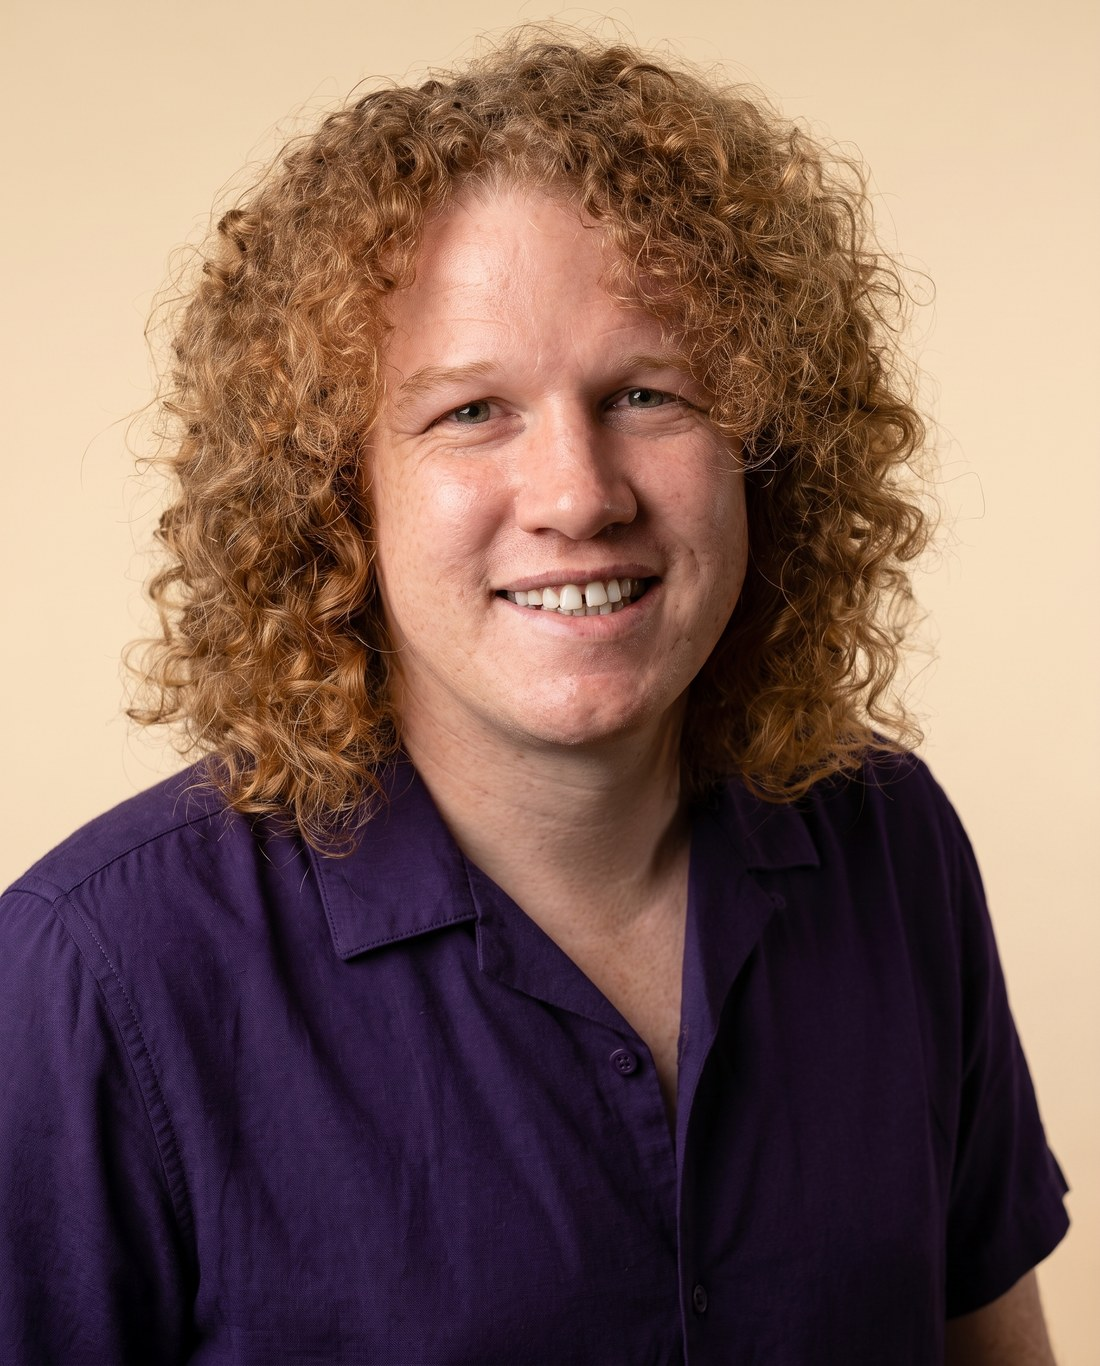
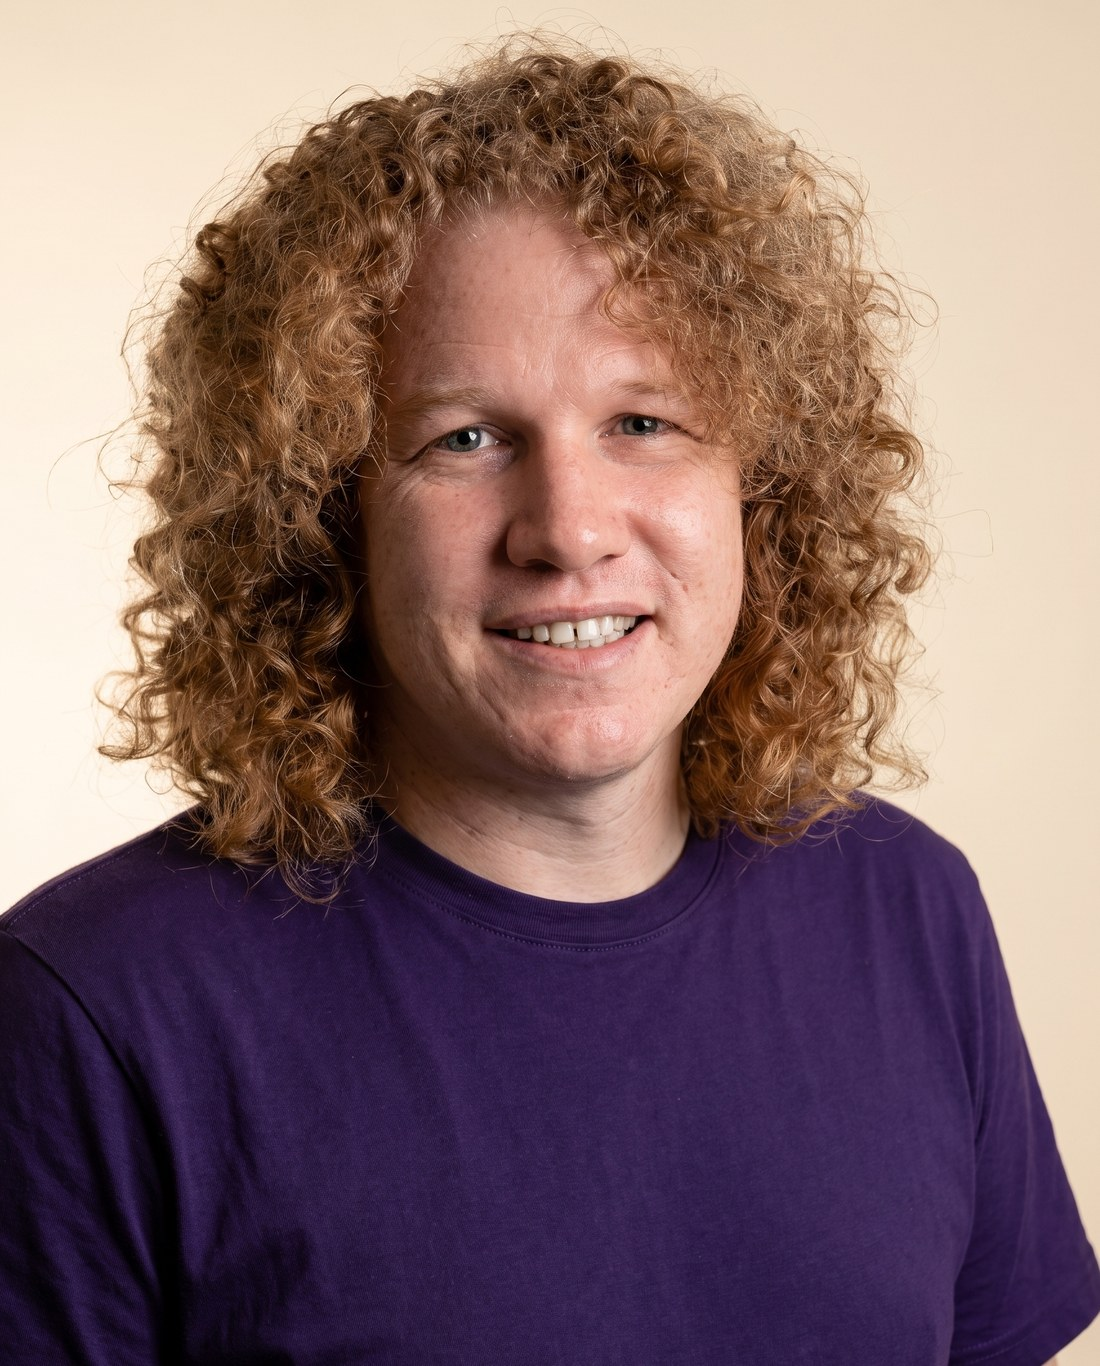
Decks: Logan's headshot, plain t-shirts in purple and cream, the humanoid rendered on the slide's own colour
Jesse, 2 Oct: the robot on 'who we are' looked wrong (a black-backed picture
blended onto purple left a visible box); the team were still in collared
shirts; Logan had no photo. The humanoid is re-rendered from the site's own
G1 picture on the night colour. Portraits are plain crew-neck t-shirts,
alternating purple and cream, from each person's real photo.

diff --git a/src/unisc-deck.html b/src/unisc-deck.html
@@ -84,7 +84,9 @@
   .full .txt{position:absolute;left:calc(96*var(--u));right:calc(96*var(--u));bottom:calc(110*var(--u));z-index:1}
 
   /* who we are */
-  .who .g1{position:absolute;right:0;top:0;height:100%;width:42%;object-fit:cover;object-position:50% 30%;mix-blend-mode:screen}
+  .slide.night:has(.who){background:#201235}
+  .who .g1{position:absolute;inset:0;width:100%;height:100%;object-fit:cover;transform:translateX(11%) scale(1.12);transform-origin:100% 55%}
+  .who .col{position:relative}
   .who .col{width:calc(1120*var(--u));display:flex;flex-direction:column;flex:1 1 auto;min-height:0}
   .four4{display:grid;grid-template-columns:1fr 1fr;gap:calc(8*var(--u)) calc(48*var(--u));margin-top:auto}
   .four4 div{border-top:calc(2*var(--u)) solid var(--paper-rule);padding:calc(20*var(--u)) 0 calc(14*var(--u))}
@@ -173,7 +175,7 @@
     .full>video{display:none}
     .full::after{display:none}
     .full .txt{position:static;padding:22px 22px 0}
-    .who .g1{position:static;width:100%;height:auto;aspect-ratio:4/3;margin-top:22px;border-radius:10px;mix-blend-mode:normal}
+    .who .g1{position:static;width:100%;height:auto;aspect-ratio:4/3;object-position:96% 50%;margin-top:22px;border-radius:10px;transform:none}
     .who .col{width:auto}
     .four4,.crew,.row3,.row4,.work,.wall,.ask .stats{grid-template-columns:1fr;gap:16px;margin-top:24px}
     .crew,.wall{grid-template-columns:1fr 1fr}
@@ -229,7 +231,7 @@
 
 <section class="stage" id="s{{i}}" aria-label="Slide {{i}}. Who we are">
   <div class="slide night"><div class="in who">
-    <img class="g1" src="{{root}}img/machines/unitree-g1-stage.jpg" width="1600" height="1600" alt="A Unitree G1 humanoid robot">
+    <img class="g1" src="{{root}}img/deck/g1-night.jpg" width="2752" height="1536" alt="A humanoid robot standing in a deep purple studio">
     <div class="col">
       <p class="lab">[ Who we are ]</p>
       <h2 class="l">We are an engineering company. Robots are most of what we build.</h2>
@@ -252,7 +254,7 @@
     <div class="crew">
       <div><div class="pic"><img src="{{root}}img/deck/team-jesse.jpg" width="1100" height="1366" alt="Jesse Costelloe"></div><h3>Jesse Costelloe</h3><p class="role">Cofounder, Head of Design and Fabrication</p><img class="alum" src="{{root}}img/deck/unisc.svg" width="539" height="90" alt="University of the Sunshine Coast alumni"></div>
       <div><div class="pic"><img src="{{root}}img/deck/team-ryan.jpg" width="1100" height="1366" alt="Ryan Edwards"></div><h3>Ryan Edwards</h3><p class="role">Cofounder, Chief Commercial Officer</p><img class="alum" src="{{root}}img/deck/unisc.svg" width="539" height="90" alt="University of the Sunshine Coast alumni"></div>
-      <div><div class="pic none">LB</div><h3>Logan Baker</h3><p class="role">Cofounder, Chief Marketing Officer</p><img class="alum" src="{{root}}img/deck/unisc.svg" width="539" height="90" alt="University of the Sunshine Coast alumni"></div>
+      <div><div class="pic"><img src="{{root}}img/deck/team-logan.jpg" width="1100" height="1366" alt="Logan Baker"></div><h3>Logan Baker</h3><p class="role">Cofounder, Chief Marketing Officer</p><img class="alum" src="{{root}}img/deck/unisc.svg" width="539" height="90" alt="University of the Sunshine Coast alumni"></div>
       <div><div class="pic"><img src="{{root}}img/deck/team-gino.jpg" width="1100" height="1366" alt="Gino Feng"></div><h3>Gino Feng</h3><p class="role">Cofounder, Head of Engineering and Robotics</p></div>
     </div>
   </div></div>

diff --git a/deck/unisc/index.html b/deck/unisc/index.html
@@ -91,7 +91,9 @@
   .full .txt{position:absolute;left:calc(96*var(--u));right:calc(96*var(--u));bottom:calc(110*var(--u));z-index:1}
 
   /* who we are */
-  .who .g1{position:absolute;right:0;top:0;height:100%;width:42%;object-fit:cover;object-position:50% 30%;mix-blend-mode:screen}
+  .slide.night:has(.who){background:#201235}
+  .who .g1{position:absolute;inset:0;width:100%;height:100%;object-fit:cover;transform:translateX(11%) scale(1.12);transform-origin:100% 55%}
+  .who .col{position:relative}
   .who .col{width:calc(1120*var(--u));display:flex;flex-direction:column;flex:1 1 auto;min-height:0}
   .four4{display:grid;grid-template-columns:1fr 1fr;gap:calc(8*var(--u)) calc(48*var(--u));margin-top:auto}
   .four4 div{border-top:calc(2*var(--u)) solid var(--paper-rule);padding:calc(20*var(--u)) 0 calc(14*var(--u))}
@@ -180,7 +182,7 @@
     .full>video{display:none}
     .full::after{display:none}
     .full .txt{position:static;padding:22px 22px 0}
-    .who .g1{position:static;width:100%;height:auto;aspect-ratio:4/3;margin-top:22px;border-radius:10px;mix-blend-mode:normal}
+    .who .g1{position:static;width:100%;height:auto;aspect-ratio:4/3;object-position:96% 50%;margin-top:22px;border-radius:10px;transform:none}
     .who .col{width:auto}
     .four4,.crew,.row3,.row4,.work,.wall,.ask .stats{grid-template-columns:1fr;gap:16px;margin-top:24px}
     .crew,.wall{grid-template-columns:1fr 1fr}
@@ -236,7 +238,7 @@
 
 <section class="stage" id="s2" aria-label="Slide 2. Who we are">
   <div class="slide night"><div class="in who">
-    <img class="g1" src="../../img/machines/unitree-g1-stage.jpg" width="1600" height="1600" alt="A Unitree G1 humanoid robot">
+    <img class="g1" src="../../img/deck/g1-night.jpg" width="2752" height="1536" alt="A humanoid robot standing in a deep purple studio">
     <div class="col">
       <p class="lab">[ Who we are ]</p>
       <h2 class="l">We are an engineering company. Robots are most of what we build.</h2>
@@ -259,7 +261,7 @@
     <div class="crew">
       <div><div class="pic"><img src="../../img/deck/team-jesse.jpg" width="1100" height="1366" alt="Jesse Costelloe"></div><h3>Jesse Costelloe</h3><p class="role">Cofounder, Head of Design and Fabrication</p><img class="alum" src="../../img/deck/unisc.svg" width="539" height="90" alt="University of the Sunshine Coast alumni"></div>
       <div><div class="pic"><img src="../../img/deck/team-ryan.jpg" width="1100" height="1366" alt="Ryan Edwards"></div><h3>Ryan Edwards</h3><p class="role">Cofounder, Chief Commercial Officer</p><img class="alum" src="../../img/deck/unisc.svg" width="539" height="90" alt="University of the Sunshine Coast alumni"></div>
-      <div><div class="pic none">LB</div><h3>Logan Baker</h3><p class="role">Cofounder, Chief Marketing Officer</p><img class="alum" src="../../img/deck/unisc.svg" width="539" height="90" alt="University of the Sunshine Coast alumni"></div>
+      <div><div class="pic"><img src="../../img/deck/team-logan.jpg" width="1100" height="1366" alt="Logan Baker"></div><h3>Logan Baker</h3><p class="role">Cofounder, Chief Marketing Officer</p><img class="alum" src="../../img/deck/unisc.svg" width="539" height="90" alt="University of the Sunshine Coast alumni"></div>
       <div><div class="pic"><img src="../../img/deck/team-gino.jpg" width="1100" height="1366" alt="Gino Feng"></div><h3>Gino Feng</h3><p class="role">Cofounder, Head of Engineering and Robotics</p></div>
     </div>
   </div></div>

diff --git a/src/profile-deck.html b/src/profile-deck.html
@@ -55,7 +55,8 @@
   figure.wide{flex:1 1 auto;min-height:0;margin-top:6mm;border-radius:3mm;overflow:hidden}
   figure.wide.tall{flex:0 0 150mm}
   figure.wide img{width:100%;height:100%;object-fit:cover}
-  .night figure.wide{background:#000}
+  .pg.night{background:#201235}
+  .night figure.wide{background:#201235;border-radius:0}
 
   .crew{display:grid;grid-template-columns:1fr 1fr;gap:9mm 8mm;margin-top:9mm}
   .crew img,.crew .none{width:100%;height:66mm;object-fit:cover;object-position:50% 14%;border-radius:3mm;background:#F8EEE4}
@@ -147,7 +148,7 @@
       <div><h3><b>03</b>AI</h3><p>What the machine sees, picks up, and when it stops. Plus agents for triage, approvals, invoices.</p></div>
       <div><h3><b>04</b>Apps and software</h3><p>Ordering, payment, stock, dispatch, the dashboard. React, Node, Python, Postgres.</p></div>
     </div>
-    <figure class="wide"><img src="{{root}}img/machines/unitree-g1-stage.jpg" alt="A Unitree G1 humanoid robot" style="object-position:50% 22%"></figure>
+    <figure class="wide"><img src="{{root}}img/deck/g1-night.jpg" alt="A humanoid robot standing in a deep purple studio" style="object-position:97% 50%"></figure>
   <div class="foot"><span>Wonder Robotics</span><span>{{n}}</span></div></div>
 </div>
 </section>
@@ -159,9 +160,9 @@
     <h2 class="d2">Four founders. Design, engineering and growth in one building.</h2>
     <div class="crew">
       <div><img src="{{root}}img/deck/team-jesse.jpg" alt="Jesse Costelloe"><h3>Jesse Costelloe</h3><p class="role">Cofounder, Head of Design and Fabrication</p><p>Twenty years in brand, most of it taken all the way to the factory.</p><p class="alum">University of the Sunshine Coast alumni</p></div>
-      <div><img src="{{root}}img/deck/team-gino.jpg" alt="Gino Feng"><h3>Gino Feng</h3><p class="role">Cofounder, Head of Engineering and Robotics</p><p>Builds robots from the ground up, hardware and software, and leads the engineering team behind our own kitchen.</p></div>
       <div><img src="{{root}}img/deck/team-ryan.jpg" alt="Ryan Edwards"><h3>Ryan Edwards</h3><p class="role">Cofounder, Chief Commercial Officer</p><p class="alum">University of the Sunshine Coast alumni</p></div>
-      <div><span class="none">LB</span><h3>Logan Baker</h3><p class="role">Cofounder, Chief Marketing Officer</p><p class="alum">University of the Sunshine Coast alumni</p></div>
+      <div><img src="{{root}}img/deck/team-logan.jpg" alt="Logan Baker"><h3>Logan Baker</h3><p class="role">Cofounder, Chief Marketing Officer</p><p class="alum">University of the Sunshine Coast alumni</p></div>
+      <div><img src="{{root}}img/deck/team-gino.jpg" alt="Gino Feng"><h3>Gino Feng</h3><p class="role">Cofounder, Head of Engineering and Robotics</p><p>Builds robots from the ground up, hardware and software, and leads the engineering team behind our own kitchen.</p></div>
     </div>
   <div class="foot"><span>Wonder Robotics</span><span>{{n}}</span></div></div>
 </div>

diff --git a/deck/profile/index.html b/deck/profile/index.html
@@ -62,7 +62,8 @@
   figure.wide{flex:1 1 auto;min-height:0;margin-top:6mm;border-radius:3mm;overflow:hidden}
   figure.wide.tall{flex:0 0 150mm}
   figure.wide img{width:100%;height:100%;object-fit:cover}
-  .night figure.wide{background:#000}
+  .pg.night{background:#201235}
+  .night figure.wide{background:#201235;border-radius:0}
 
   .crew{display:grid;grid-template-columns:1fr 1fr;gap:9mm 8mm;margin-top:9mm}
   .crew img,.crew .none{width:100%;height:66mm;object-fit:cover;object-position:50% 14%;border-radius:3mm;background:#F8EEE4}
@@ -154,7 +155,7 @@
       <div><h3><b>03</b>AI</h3><p>What the machine sees, picks up, and when it stops. Plus agents for triage, approvals, invoices.</p></div>
       <div><h3><b>04</b>Apps and software</h3><p>Ordering, payment, stock, dispatch, the dashboard. React, Node, Python, Postgres.</p></div>
     </div>
-    <figure class="wide"><img src="../../img/machines/unitree-g1-stage.jpg" alt="A Unitree G1 humanoid robot" style="object-position:50% 22%"></figure>
+    <figure class="wide"><img src="../../img/deck/g1-night.jpg" alt="A humanoid robot standing in a deep purple studio" style="object-position:97% 50%"></figure>
   <div class="foot"><span>Wonder Robotics</span><span>02</span></div></div>
 </div>
 </section>
@@ -166,9 +167,9 @@
     <h2 class="d2">Four founders. Design, engineering and growth in one building.</h2>
     <div class="crew">
       <div><img src="../../img/deck/team-jesse.jpg" alt="Jesse Costelloe"><h3>Jesse Costelloe</h3><p class="role">Cofounder, Head of Design and Fabrication</p><p>Twenty years in brand, most of it taken all the way to the factory.</p><p class="alum">University of the Sunshine Coast alumni</p></div>
-      <div><img src="../../img/deck/team-gino.jpg" alt="Gino Feng"><h3>Gino Feng</h3><p class="role">Cofounder, Head of Engineering and Robotics</p><p>Builds robots from the ground up, hardware and software, and leads the engineering team behind our own kitchen.</p></div>
       <div><img src="../../img/deck/team-ryan.jpg" alt="Ryan Edwards"><h3>Ryan Edwards</h3><p class="role">Cofounder, Chief Commercial Officer</p><p class="alum">University of the Sunshine Coast alumni</p></div>
-      <div><span class="none">LB</span><h3>Logan Baker</h3><p class="role">Cofounder, Chief Marketing Officer</p><p class="alum">University of the Sunshine Coast alumni</p></div>
+      <div><img src="../../img/deck/team-logan.jpg" alt="Logan Baker"><h3>Logan Baker</h3><p class="role">Cofounder, Chief Marketing Officer</p><p class="alum">University of the Sunshine Coast alumni</p></div>
+      <div><img src="../../img/deck/team-gino.jpg" alt="Gino Feng"><h3>Gino Feng</h3><p class="role">Cofounder, Head of Engineering and Robotics</p><p>Builds robots from the ground up, hardware and software, and leads the engineering team behind our own kitchen.</p></div>
     </div>
   <div class="foot"><span>Wonder Robotics</span><span>03</span></div></div>
 </div>
